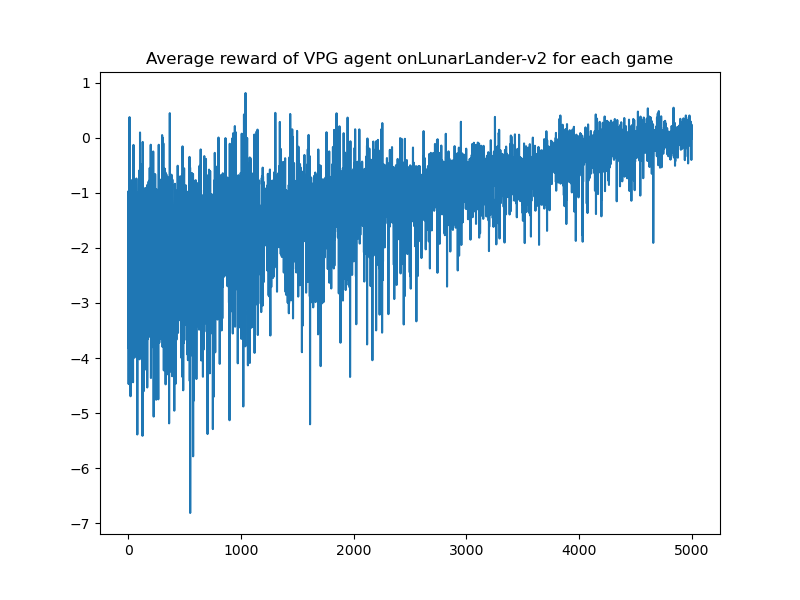
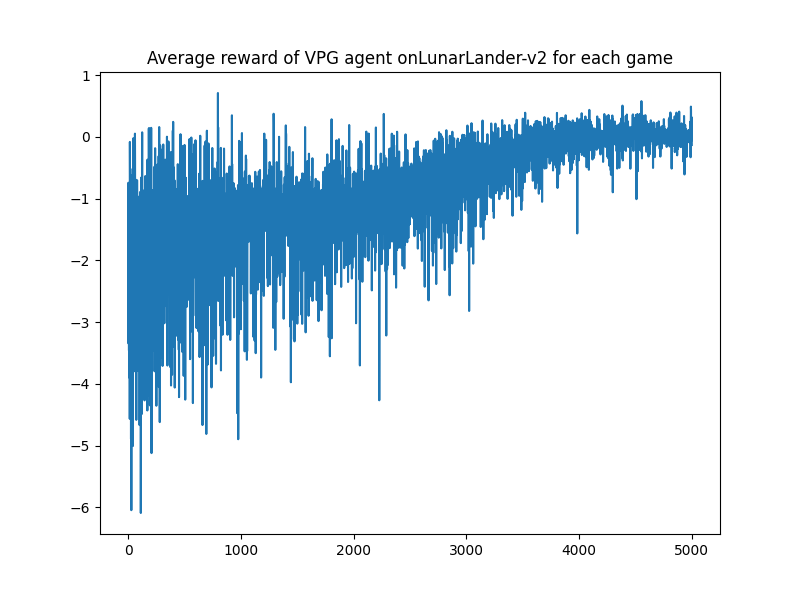
Adding python version, requirements.txt for reporducibility

diff --git a/td3.py b/td3.py
@@ -17,7 +17,7 @@ Experiment and result:
 
 def td3():
     # Setting up environment
-    env_name = "Pendulum-v0"
+    env_name = "Pendulum-v1"
     env = gym.make(env_name)
     action_space = env.action_space.shape[0]
     action_space_low = env.action_space.low
@@ -85,7 +85,10 @@ def td3():
         game_reward = []
         rewards_list.append(avg_reward_this_game)
         print(f'For game number {i}, mean of last 100 rewards = {sum(score_deque)/100}')
-        env.close()
+        try:
+            env.close()
+        except:
+            pass
 
         if i > test_after:  # Test agent after certain number of training epochs
             for i_ in range(test_epochs):  # Run test by visualizing TODO: use reward instead of visualization
@@ -94,13 +97,19 @@ def td3():
                     done_ = False
                     j_ = 0
                     while (not done_) and j_ < test_steps:
-                        env.render()
+                        try:
+                            env.render()
+                        except:
+                            pass
                         # time.sleep(1e-3)
                         action = agent.take_action(observation_, add_noise_till + 1)
                         o_, _, done_, _ = env.step(action)
                         observation_ = o_
                         j += 1
-                    env.close()
+                    try:
+                        env.close()
+                    except:
+                        pass
 
     # Plotting avg rewards per game
     plt.figure(figsize=(8, 6))

diff --git a/SoftActorCritic.py b/SoftActorCritic.py
@@ -16,7 +16,7 @@ converging! It took much more time than DDPG to reach low rewards.
 
 def sac():
     # Environment setup:
-    env_name = "Pendulum-v0" #MountainCarContinuous-v0
+    env_name = "Pendulum-v1" #MountainCarContinuous-v0
     env = gym.make(env_name)
     action_space = env.action_space.shape[0]
     action_space_low = env.action_space.low
@@ -81,7 +81,10 @@ def sac():
         avg_reward_this_game = sum(game_reward) / len(game_reward)
         rewards_list.append(avg_reward_this_game)
         print(f'For game number {i}, mean of last 100 rewards = {sum(score_deque) / 100}')
-        env.close()
+        try:
+            env.close()
+        except:
+            pass
 
         if i > test_after:
             for i_ in range(test_epochs):
@@ -89,11 +92,17 @@ def sac():
                 done = False
                 j_ = 0
                 while (not done) and j_<test_steps:
-                    env.render()
+                    try:
+                        env.render()
+                    except:
+                        pass
                     action,_ = agent.take_action(obs_,deterministic=True)
                     obs_,_,done,_ = env.step(action)
                     j += 1
-                env.close()
+                try:
+                    env.close()
+                except:
+                    pass
 
     # Plotting avg rewards per game
     plt.figure(figsize=(8, 6))

diff --git a/ddpg.py b/ddpg.py
@@ -177,7 +177,7 @@ def main():
     action_noise = 0.1
 
     # Environment
-    env_name = "Pendulum-v0" # "MountainCarContinuous-v0"
+    env_name = "Pendulum-v1" # "MountainCarContinuous-v0"
     env = gym.make(env_name)
     action_space = env.action_space.shape[0]
     action_space_high = env.action_space.high
@@ -223,7 +223,10 @@ def main():
         game_reward = []
         rewards_list.append(avg_reward_this_game)
         print(f'For game number {i},avg reward this game {avg_reward_this_game}, mean of last 100 rewards = {sum(score_deque) / 100}')
-        env.close()
+        try:
+            env.close()
+        except:
+            pass
 
     # Plotting avg rewards per game
     plt.figure(figsize=(8, 6))
@@ -238,12 +241,18 @@ def main():
             done = False
             j_ = 0
             while not (done or j_ > test_steps):
-                env.render()
+                try:
+                    env.render()
+                except:
+                    pass
                 time.sleep(1e-3)
                 action = agent.take_action(observation)
                 observation, _, done, _ = env.step(action)
                 j_ += 1
-            env.close()
+            try:
+                env.close()
+            except:
+                pass
 
 
 if __name__ == "__main__":

diff --git a/ppo_clip.py b/ppo_clip.py
@@ -36,7 +36,7 @@ def ppo_clip(seed=1003):
     np.random.seed(seed)
 
     # Setting up Environment
-    env_name = "Pendulum-v0"
+    env_name = "Pendulum-v1"
     env = gym.make(env_name)
     action_space = env.action_space
     observation_space = env.observation_space
@@ -114,12 +114,18 @@ def ppo_clip(seed=1003):
             done = False
             j_ = 0
             while not (done or j_ > test_steps):
-                env.render()
+                try:
+                    env.render()
+                except:
+                    pass
                 time.sleep(1e-3)
                 action, _, _ = agent.take_action(torch.as_tensor(observation,dtype=torch.float32))
                 observation, _, done, _ = env.step(action)
                 j_ += 1
-            env.close()
+            try:
+                env.close()
+            except:
+                pass
 
 
 ppo_clip()

diff --git a/Readme.md b/Readme.md
@@ -21,9 +21,63 @@
 | SAC | - | ![Pendulum-SAC](https://raw.githubusercontent.com/akashe/DeepReinforcementLearning/main/figures/SAC_Pendulum-v0_rewards.png) |
 | PPO | - | ![Pendulum-PPO](https://raw.githubusercontent.com/akashe/DeepReinforcementLearning/main/figures/PPO_Pendulum-v0_rewards.png) |
 
+#### Installation:
+
+**Prerequisites:**
+- Python 3.8+ (3.8.10 recommended)
+- [pyenv](https://github.com/pyenv/pyenv) (optional but recommended)
+- [Homebrew](https://brew.sh/) (for macOS users)
+
+**Setup:**
+1. **Clone the repository:**
+   ```bash
+   git clone https://github.com/akashe/DeepReinforcementLearning.git
+   cd DeepReinforcementLearning
+   ```
+
+2. **Set up Python environment:**
+   ```bash
+   # Option A: Using pyenv (recommended)
+   pyenv install 3.8.10
+   pyenv local 3.8.10
+   
+   # Option B: Using system Python 3.8+
+   # Make sure you have Python 3.8+ installed
+   ```
+
+3. **Install system dependencies (for Box2D environments like LunarLander):**
+   ```bash
+   # macOS:
+   brew install swig
+   
+   # Ubuntu/Debian:
+   sudo apt-get install swig
+   
+   # Other systems: install swig through your package manager
+   ```
+
+4. **Create and activate virtual environment:**
+   ```bash
+   python -m venv venv
+   source venv/bin/activate  # On Windows: venv\Scripts\activate
+   ```
+
+5. **Install Python dependencies:**
+   ```bash
+   pip install -r requirements.txt
+   ```
+
 #### Usage:
 Just run the file/algorithm directly. There is no common structures between algorithms as I implemented them as I learnt them. 
 Different algorithms are inspired from different sources.
+
+**Examples:**
+```bash
+python ddpg.py          # Run DDPG on Pendulum-v1
+python DQN.py           # Run DQN on LunarLander-v2
+python td3.py           # Run TD3 on Pendulum-v1
+python SoftActorCritic.py # Run SAC on Pendulum-v1
+```
 
 #### Resources:
 1. [RL course by David Silver](https://www.youtube.com/watch?v=KHZVXao4qXs&list=PLqYmG7hTraZDM-OYHWgPebj2MfCFzFObQ&index=7)
